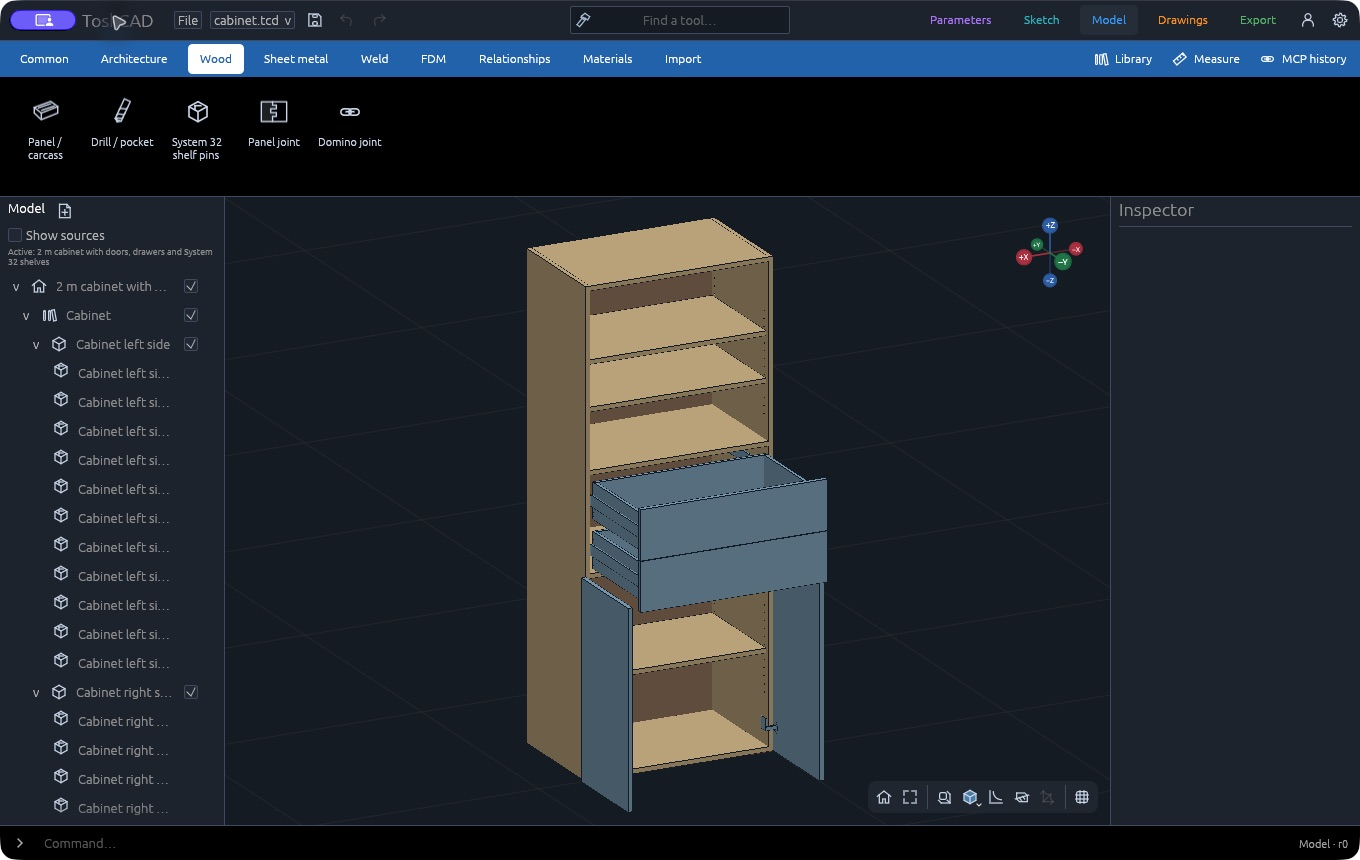
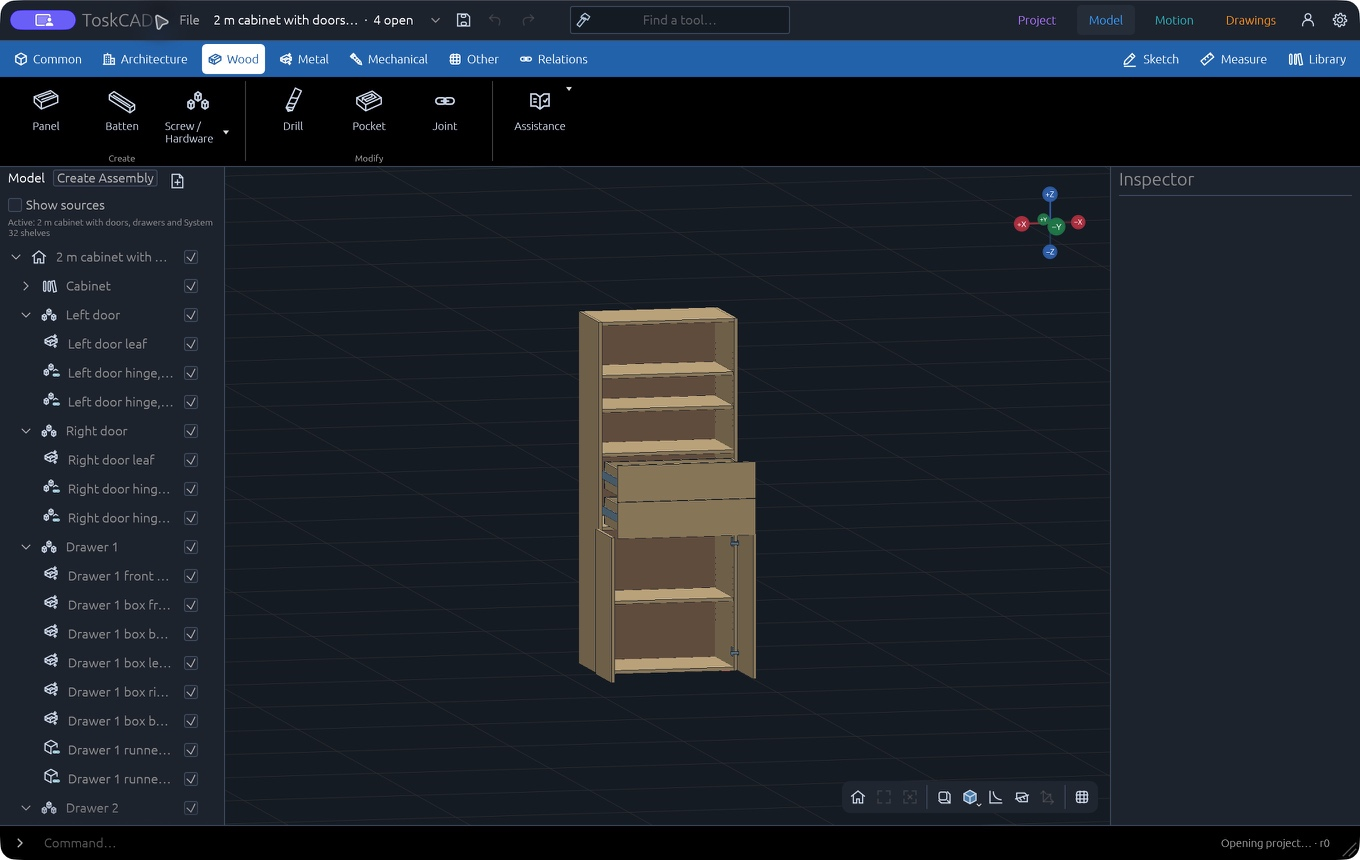
docs: refresh native ToskCAD website screenshots

diff --git a/website/index.html b/website/index.html
@@ -24,10 +24,10 @@
 <section class="application" id="application" aria-labelledby="application-title">
 <div class="section-head"><h2 id="application-title">Try a real project.</h2><p>These projects come with ToskCAD. Open one from Examples to get your own editable copy.</p></div>
 
-<figure id="workbench"><a href="assets/workbench.jpg?v=20261031-details" aria-label="Preview the workbench screenshot"><img src="assets/workbench.jpg?v=20261031-details" width="1360" height="860" loading="lazy" alt="The bundled welded steel workbench and perforated wooden top open in ToskCAD."></a><figcaption><h3>Welded workbench.</h3><p>This workbench combines a welded tube frame with a beech worktop. The holes in the top have their own diameter, spacing and edge offsets.</p><p>Try changing the overall size or the hole pattern. The example also includes drawings and schedules. It is a geometry example, with no load rating or weld-strength approval.</p><a class="supporting-shot drawing-sheet" href="assets/workbench-weld-plan.svg?v=20261031-details"><img src="assets/workbench-weld-plan.svg?v=20261031-details" width="1587" height="1122" loading="lazy" alt="Weld plan generated from the workbench model, with numbered weld callouts and a weld schedule."><span>Weld locations and schedule ↗</span></a><p class="capture-note">Built-in workbench example · macOS, October 31, 2026.</p></figcaption></figure>
-<figure id="cabinet"><a href="assets/cabinet.jpg?v=20261031-details" aria-label="Preview the cabinet screenshot"><img src="assets/cabinet.jpg?v=20261031-details" width="1360" height="860" alt="The bundled plywood cabinet project open in ToskCAD."></a><figcaption><h3>Plywood cabinet.</h3><p>A plywood cabinet with doors, drawers and adjustable shelves. Change its width, depth or height in Parameters and rebuild the model.</p><p>Open both doors and extend the drawers with a saved pose. The drilling plan locates the hinge cups, runner screws and System 32 shelf-pin rows.</p><a class="supporting-shot drawing-sheet" href="assets/cabinet-connector-plan.svg?v=20261031-details"><img src="assets/cabinet-connector-plan.svg?v=20261031-details" width="1587" height="1122" loading="lazy" alt="Cabinet drilling plan with System 32 rows, hinge cups and runner screw positions."><span>Connector and drilling positions ↗</span></a><p class="capture-note">Built-in cabinet example · macOS, October 31, 2026. Click an image to inspect it.</p></figcaption></figure>
-<figure id="front-panel"><a href="assets/front-panel.jpg?v=20261031-details" aria-label="Preview the front panel screenshot"><img src="assets/front-panel.jpg?v=20261031-details" width="1360" height="860" loading="lazy" alt="The bundled bent aluminium front panel with button openings, display and printed end parts open in ToskCAD."></a><figcaption><h3>Aluminium front panel.</h3><p>A bent aluminium panel holds six buttons and a display, with printed end parts screwed through its flanges. You can edit the panel dimensions and the positions of the openings.</p><p>The grey aluminium panel and black PETG end parts have separate material assignments and print export sets. The buttons and display are illustrative models, so check actual hardware dimensions before making it.</p><p class="capture-note">Built-in front panel example · macOS, October 31, 2026.</p></figcaption></figure>
-<figure id="apartment"><a href="assets/apartment-plan.svg?v=20261031-details" aria-label="Preview the apartment floor plan"><img src="assets/apartment-plan.svg?v=20261031-details" width="1587" height="1122" loading="lazy" alt="The apartment floor-plan drawing generated from the model, with wall sections, door swings and dimensions."></a><figcaption><h3>Apartment with workshop.</h3><p>The apartment has editable walls, doors and windows, plus a workshop that uses the cabinet and workbench as linked projects.</p><p>The plan is generated from the model, including wall cuts, door swings and dimensions. The sofa and coffee table leave the bedroom doorway clear. It is a layout example, without structural or building-code approval.</p><a class="supporting-shot" href="assets/apartment.jpg?v=20261031-details"><img src="assets/apartment.jpg?v=20261031-details" width="1360" height="860" loading="lazy" alt="A close isometric view of the apartment, with the sofa turned along the wall to clear the bedroom doorway."><span>Inspect the 3D model ↗</span></a><p class="capture-note">Built-in apartment example · macOS, October 31, 2026.</p></figcaption></figure>
+<figure id="workbench"><a href="assets/workbench.jpg?v=20261109-ui" aria-label="Preview the workbench screenshot"><img src="assets/workbench.jpg?v=20261109-ui" width="1360" height="860" loading="lazy" alt="The bundled welded steel workbench and perforated wooden top open in ToskCAD."></a><figcaption><h3>Welded workbench.</h3><p>This workbench combines a welded tube frame with a beech worktop. The holes in the top have their own diameter, spacing and edge offsets.</p><p>Try changing the overall size or the hole pattern. The example also includes drawings and schedules. It is a geometry example, with no load rating or weld-strength approval.</p><a class="supporting-shot drawing-sheet" href="assets/workbench-weld-plan.svg?v=20261031-details"><img src="assets/workbench-weld-plan.svg?v=20261031-details" width="1587" height="1122" loading="lazy" alt="Weld plan generated from the workbench model, with numbered weld callouts and a weld schedule."><span>Weld locations and schedule ↗</span></a><p class="capture-note">Built-in workbench example · macOS, November 9, 2026.</p></figcaption></figure>
+<figure id="cabinet"><a href="assets/cabinet.jpg?v=20261109-ui" aria-label="Preview the cabinet screenshot"><img src="assets/cabinet.jpg?v=20261109-ui" width="1360" height="860" alt="The bundled plywood cabinet project open in ToskCAD."></a><figcaption><h3>Plywood cabinet.</h3><p>A plywood cabinet with doors, drawers and adjustable shelves. Change its width, depth or height in Parameters and rebuild the model.</p><p>Open both doors and extend the drawers with a saved pose. The drilling plan locates the hinge cups, runner screws and System 32 shelf-pin rows.</p><a class="supporting-shot drawing-sheet" href="assets/cabinet-connector-plan.svg?v=20261031-details"><img src="assets/cabinet-connector-plan.svg?v=20261031-details" width="1587" height="1122" loading="lazy" alt="Cabinet drilling plan with System 32 rows, hinge cups and runner screw positions."><span>Connector and drilling positions ↗</span></a><p class="capture-note">Built-in cabinet example · macOS, November 9, 2026. Click an image to inspect it.</p></figcaption></figure>
+<figure id="front-panel"><a href="assets/front-panel.jpg?v=20261109-ui" aria-label="Preview the front panel screenshot"><img src="assets/front-panel.jpg?v=20261109-ui" width="1360" height="860" loading="lazy" alt="The bundled bent aluminium front panel with button openings, display and printed end parts open in ToskCAD."></a><figcaption><h3>Aluminium front panel.</h3><p>A bent aluminium panel holds six buttons and a display, with printed end parts screwed through its flanges. You can edit the panel dimensions and the positions of the openings.</p><p>The grey aluminium panel and black PETG end parts have separate material assignments and print export sets. The buttons and display are illustrative models, so check actual hardware dimensions before making it.</p><p class="capture-note">Built-in front panel example · macOS, November 9, 2026.</p></figcaption></figure>
+<figure id="apartment"><a href="assets/apartment-plan.svg?v=20261031-details" aria-label="Preview the apartment floor plan"><img src="assets/apartment-plan.svg?v=20261031-details" width="1587" height="1122" loading="lazy" alt="The apartment floor-plan drawing generated from the model, with wall sections, door swings and dimensions."></a><figcaption><h3>Apartment with workshop.</h3><p>The apartment has editable walls, doors and windows, plus a workshop that uses the cabinet and workbench as linked projects.</p><p>The plan is generated from the model, including wall cuts, door swings and dimensions. The sofa and coffee table leave the bedroom doorway clear. It is a layout example, without structural or building-code approval.</p><a class="supporting-shot" href="assets/apartment.jpg?v=20261109-ui"><img src="assets/apartment.jpg?v=20261109-ui" width="1360" height="860" loading="lazy" alt="The apartment model open in ToskCAD’s Architecture workbench."><span>Inspect the 3D model ↗</span></a><p class="capture-note">Built-in apartment example · macOS, November 9, 2026.</p></figcaption></figure>
 </section>
 <section class="workflow" aria-labelledby="workflow-title"><div><h2 id="workflow-title">Working in ToskCAD.</h2><p>The application has five modes. Use the tools you need as your design develops.</p></div><dl>
 <div class="mode-parameters"><dt>Parameters</dt><dd>Set dimensions and formulas, then rebuild the parts they control.</dd></div>

diff --git a/website/README.md b/website/README.md
@@ -10,12 +10,12 @@ The palette uses `#4599D2`, sampled from the approved logo background, with pale
 
 - `assets/logo.png` copies the approved `assets/branding/toskcad-logo-blueprint-tosk-c.png`.
 - `assets/icon.png` copies `assets/branding/app/AppIcon.png`.
-- `assets/workbench.jpg`, `assets/cabinet.jpg`, `assets/front-panel.jpg` and `assets/apartment.jpg` are native macOS captures from October 31, 2026. They show the Weld, Wood, Sheet metal and Architecture workbenches. The cursor was parked over the application title, outside the model and drawing content.
-- Captures use editable copies under ignored `artifacts/website-focus/`, with cameras saved through the native MCP API. The cabinet uses its saved “Doors and drawers open” pose. The panel uses the native assembly preview with zero separation to display the grey aluminium and black PETG materials. The ordinary aggregate assembly view currently displays a uniform colour.
+- `assets/workbench.jpg`, `assets/cabinet.jpg`, `assets/front-panel.jpg` and `assets/apartment.jpg` are native macOS window captures from November 9, 2026. They show the Metal, Wood, Metal and Architecture workbenches, respectively. The JPEGs are 1360 × 860.
+- The captures use editable copies under `artifacts/website-focus/`. The cabinet uses the saved “Doors and drawers open” pose and an angled front view. The workbench shows the weld callouts in Model, and the panel shows the aluminium sheet and black PETG end parts.
 - `assets/workbench-weld-plan.svg`, `assets/cabinet-connector-plan.svg` and `assets/apartment-plan.svg` are vector drawing exports evaluated from the native model, not traced screenshots. The weld sheet uses a copy of the drawing with spaced callouts, compact weld identifiers and a schedule without the long notes column. The cabinet sheet shows the side, hinge and runner drilling positions. The apartment sheet is the model-derived floor plan with wall cuts, door swings and evaluated dimensions; it is not a separately authored constrained sketch.
 - The source projects are [`examples/welded-workbench.tcd`](../examples/welded-workbench.tcd), [`examples/cabinet.tcd`](../examples/cabinet.tcd), [`examples/front-panel.tcd`](../examples/front-panel.tcd) and [`examples/apartment.tcd`](../examples/apartment.tcd). The apartment source clears the bedroom approach by turning the sofa along the left wall and moving the coffee table. The panel's end parts are tagged for print and assigned PETG, with separate print export sets.
 
[2 lines of base64/hex data omitted]
 
 Regenerate a drawing with `cargo run -p multicad-app --example website_plan --locked -- examples/welded-workbench.tcd WB-102 website/assets/workbench-weld-plan.svg`. The same command accepts the cabinet page `C-103` and apartment page `AP-101`. The exporter refuses unresolved views or detached dimensions.
 

diff --git a/README.md b/README.md
@@ -12,13 +12,13 @@ ToskCAD is under active development. Expect unfinished workflows and changing pr
 
 ## Application screenshots
 
-These are native macOS screenshots from a local build on October 31, 2026. The cabinet, welded workbench, front panel and apartment are included in the application's Examples browser. Each opens as an editable copy. The captures use closer cameras; the cabinet shows its open pose and the panel shows its assigned materials in the assembly preview.
+These native macOS screenshots show the cabinet, welded workbench, front panel and apartment in the November 9, 2026 build. All four projects are available as editable copies in the Examples browser. The cabinet shows its saved open pose.
 
 ![Built-in plywood cabinet in the Wood workbench](website/assets/cabinet.jpg)
 
-![Built-in steel workbench and perforated beech top in the Weld workbench](website/assets/workbench.jpg)
+![Built-in steel workbench and perforated beech top with weld callouts in the Metal workbench](website/assets/workbench.jpg)
 
-![Built-in aluminium front panel in the Sheet metal workbench](website/assets/front-panel.jpg)
+![Built-in aluminium front panel and black PETG end parts in the Metal workbench](website/assets/front-panel.jpg)
 
 ![Built-in apartment with workshop in the Architecture workbench](website/assets/apartment.jpg)
 
